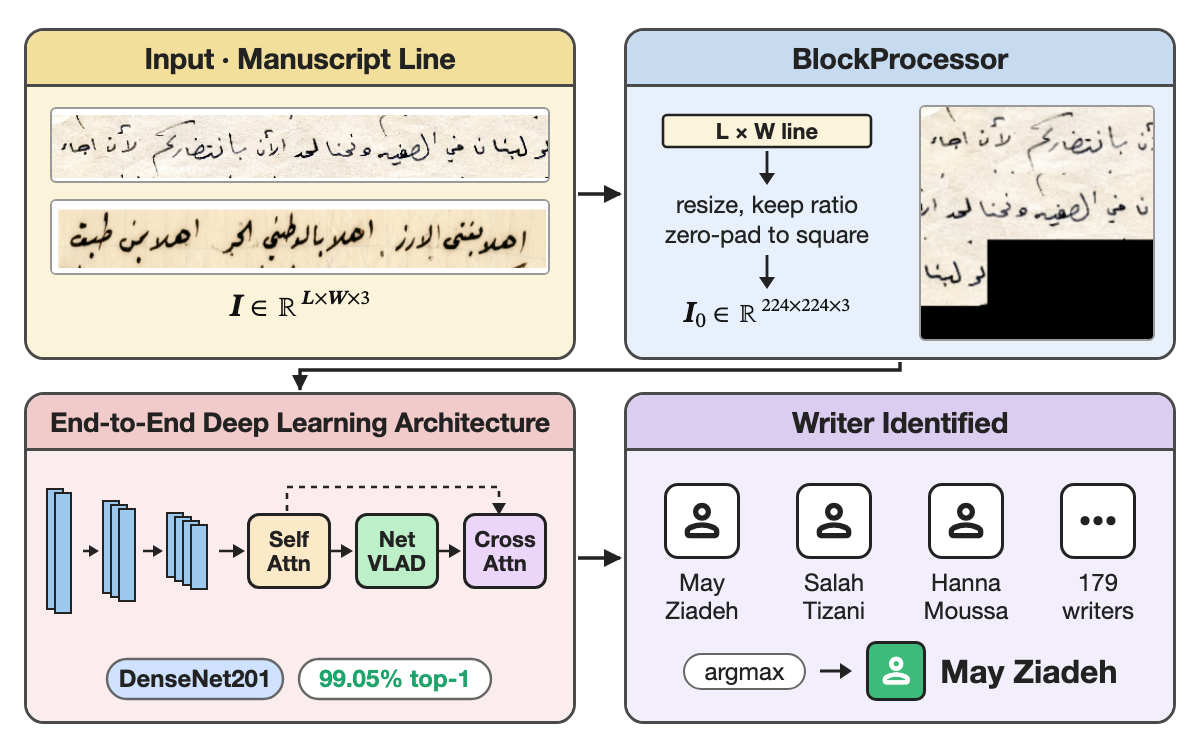
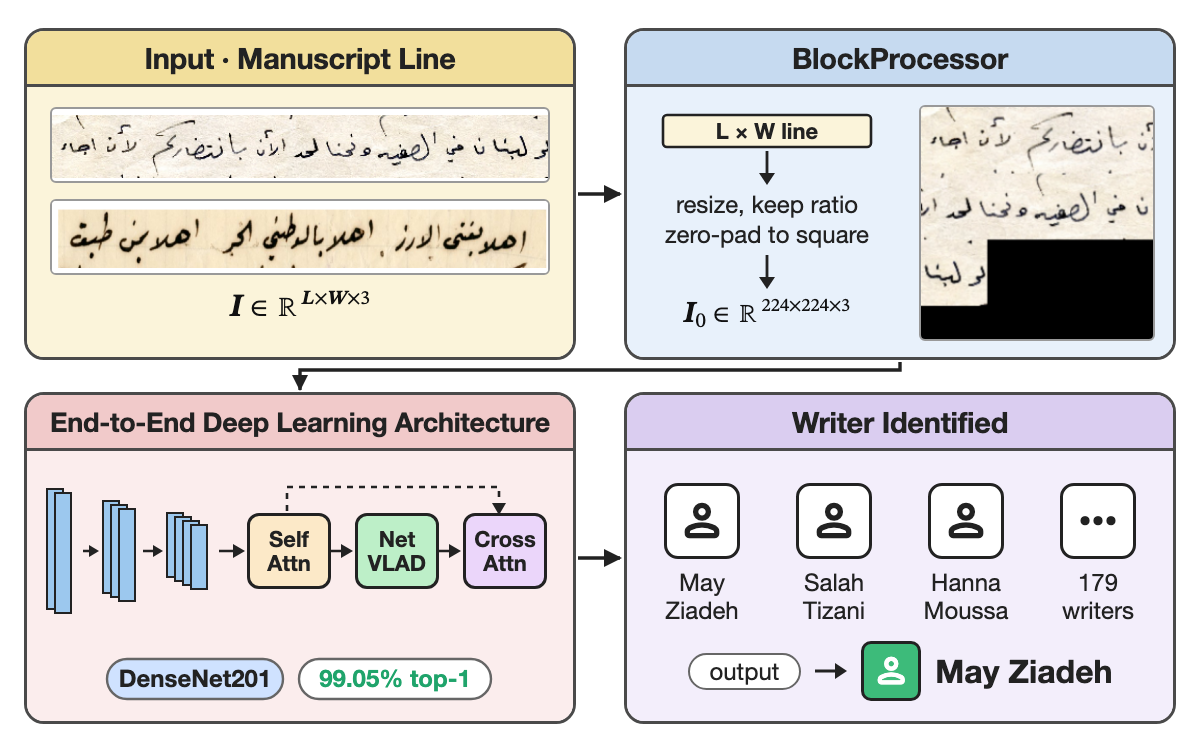
Add website figure for the MCU quantization survey; label predictions as output

Changed region(s): [[0.555, 0.8587, 0.9558, 0.9507]]

diff --git a/_figures/mcu-quantization-survey.html b/_figures/mcu-quantization-survey.html
@@ -1,0 +1,113 @@
+<!doctype html><html><head><meta charset="utf-8"><link href="https://fonts.googleapis.com/css2?family=Material+Symbols+Rounded:opsz,wght,FILL,GRAD@40,500,0,0" rel="stylesheet"><link href="https://fonts.googleapis.com/css2?family=STIX+Two+Text:ital,wght@0,400;0,700;1,400;1,700&display=swap" rel="stylesheet"><style>
+.m{font-family:"STIX Two Text",serif;font-size:16px;color:#111}.m b{font-weight:700}.m i{font-style:italic;font-weight:700}.m sub{font-size:.7em;vertical-align:-.25em;font-style:italic}
+html,body{margin:0;background:#fff}*{box-sizing:border-box}
+.f{width:600px;height:375px;position:relative;overflow:hidden;background:#fff;font-family:"Helvetica Neue",Helvetica,Arial,sans-serif;color:#222}
+.p{position:absolute;width:276px;height:166px;border:1.5px solid #4A4A4A;border-radius:10px;overflow:hidden}
+.p h4{margin:0;height:28px;line-height:27px;font-size:14.5px;font-weight:700;text-align:center;border-bottom:1.5px solid #4A4A4A;letter-spacing:-.01em}
+.b{height:136px;position:relative}
+.lav h4{background:#F2DF9C}.lav .b{background:#FBF4DA}
+.blu h4{background:#C6DAF0}.blu .b{background:#E8F1FB}
+.gry h4{background:#F1CACA}.gry .b{background:#FBEDED}
+.yel h4{background:#DACDF0}.yel .b{background:#F3EEFB}
+.plots{display:flex;gap:10px;justify-content:center;padding-top:14px}
+.plots div{width:124px;text-align:center}.plots img{width:124px;display:block;border:1px solid #999;border-radius:3px;background:#fff}
+.plots span{display:block;font-size:13px;color:#222;margin-top:5px}
+.cap{position:absolute;left:0;right:0;bottom:8px;text-align:center;font-size:11.5px;color:#333;line-height:1.3}
+.hw{display:flex;gap:12px;align-items:center;padding:14px 10px 0 12px}
+.hw img{width:140px;display:block;border-radius:3px;border:1px solid #999}
+.hw div{font-size:12.5px;line-height:1.5;color:#222;white-space:nowrap}
+.hw b{display:block;font-size:14px;color:#222;margin-bottom:4px}
+.o{color:#E8702A}.g{color:#1FA46B}
+
+.ob{position:relative;height:136px}
+.tiles{position:absolute;left:0;right:0;top:16px;display:flex;justify-content:center;gap:10px}
+.tile{width:56px;text-align:center}
+.tile .ic{width:38px;height:38px;margin:0 auto;border:1.8px solid #222;border-radius:7px;background:#fff;display:flex;align-items:center;justify-content:center}
+.ms{font-family:'Material Symbols Rounded';font-size:25px;line-height:1;font-feature-settings:'liga';color:#222}
+.tile.on .ic{background:#3DBB7A}.tile.on .ms{color:#fff}
+.tile > span{display:block;font-size:12px;line-height:1.15;margin-top:5px;color:#222}
+.tile.on > span{font-weight:700}
+.am{position:absolute;left:0;right:0;bottom:11px;display:flex;justify-content:center;align-items:center;gap:7px}
+.am .pill{border:1.2px solid #666;border-radius:10px;background:#fff;padding:1px 10px;font-size:12px}
+.am .mini{width:30px;height:30px;border:1.6px solid #222;border-radius:5px;background:#3DBB7A;display:flex;align-items:center;justify-content:center}
+.am .mini .ms{font-size:21px;color:#fff}
+.am b{font-size:16px}
+
+.strip{width:250px;height:38px;margin:0 auto;overflow:hidden;border:1px solid #999;border-radius:3px;background:#fff;position:relative}
+.strip img{position:absolute;left:-4px;width:258px}
+.strips{display:flex;flex-direction:column;gap:14px;padding-top:24px}
+.blk{border:1.6px solid #222;border-radius:7px;display:flex;align-items:center;justify-content:center;text-align:center;font-size:12.5px;font-weight:700;line-height:1.15}
+.sa{background:#FCE9C8;border-style:dashed}.nv{background:#BDEFC8}.ca{background:#EBD6FA;border-style:dashed}
+
+.inp{padding-top:34px;text-align:center}
+.inp img{width:248px;display:block;margin:0 auto;border:1px solid #999;border-radius:3px}
+.blkp{display:flex;align-items:center;justify-content:center;gap:16px;height:136px}
+.blkp img{width:104px;height:104px;display:block;border:1px solid #999;border-radius:3px}
+.mm{font-family:"STIX Two Text",serif;font-size:16px;color:#111;margin-top:9px;display:block}
+.mm i{font-style:italic;font-weight:700}.mm sup{font-size:.62em}.mm sub{font-size:.7em;vertical-align:-.25em}
+.mini-blk{position:absolute;border:1.5px solid #222;border-radius:6px;display:flex;align-items:center;justify-content:center;text-align:center;font-size:11px;font-weight:700;line-height:1.1}
+
+.strip2{width:250px;height:38px;margin:0 auto;overflow:hidden;border:1px solid #999;border-radius:3px;background:#fff;position:relative}
+.strip2 img{position:absolute;left:0;width:250px}
+.strips2{display:flex;flex-direction:column;gap:8px;padding-top:10px}
+.bp{position:relative;height:136px}
+.bp img.blk{position:absolute;left:14px;top:9px;width:118px;height:118px;border:1px solid #999;border-radius:3px}
+
+.abs{position:absolute}
+.gly{position:absolute;width:30px;height:30px;display:flex;align-items:center;justify-content:center}
+.gly .ms{font-size:24px;color:#222}
+.cap2{position:absolute;font-size:11.5px;font-weight:700;text-align:center;color:#222;line-height:1.2}
+.pilltag{position:absolute;border:1.2px solid #666;border-radius:10px;background:#fff;padding:2px 0;font-size:12px;font-weight:700;text-align:center}
+.lvl{position:absolute;left:0;right:0;height:45px;display:flex;align-items:center;padding:0 12px;gap:10px}
+.lvl b{width:44px;font-size:12.5px}
+.lvl img{height:30px;width:auto}
+.lvl .ms{font-size:26px;color:#222;width:34px;text-align:center}
+.lvl span.d{font-size:12px;white-space:nowrap}
+.grp{position:absolute;left:12px;font-size:11px;font-weight:700;color:#555;width:46px;text-align:right}
+.trow{position:absolute;left:66px;display:flex;gap:6px}
+.t2{width:28px;height:28px;border:1.5px solid #222;border-radius:6px;background:#fff;display:flex;align-items:center;justify-content:center}
+.t2 .ms{font-size:19px;color:#222}
+
+.dtile{position:absolute;width:30px;height:30px;border:1.5px solid #222;border-radius:6px;background:#fff;display:flex;align-items:center;justify-content:center}
+.dtile .ms{font-size:19px;color:#222}
+.lv2{position:absolute;left:0;right:0;height:45px;display:flex;align-items:center;padding:0 10px;gap:8px}
+.lv2 .lt{width:30px;height:30px;border:1.5px solid #222;border-radius:6px;display:flex;align-items:center;justify-content:center;flex:none}
+.lv2 .lt .ms{font-size:19px;color:#222}
+.lv2 b{width:40px;font-size:12.5px;flex:none}
+.d2{font-size:12px;white-space:nowrap;color:#222;line-height:1.3}
+.lat{color:#E8702A;font-weight:600}
+.dc{border:1.2px solid #444;border-radius:5px;padding:2px 7px;font-size:11.5px;font-weight:600;white-space:nowrap}
+.edge{background:#CFE2FF}.fog{background:#FBD9AE}.cld{background:#F6D3F0}
+.lv3{position:absolute;left:0;right:0;height:45px;display:flex;align-items:center;padding:0 12px 0 10px;gap:9px}
+.lv3 .lt{width:30px;height:30px;border:1.5px solid #222;border-radius:6px;display:flex;align-items:center;justify-content:center;flex:none}
+.lv3 .lt .ms{font-size:19px;color:#222}
+.lv3 .nm{flex:1;line-height:1.25}
+.lv3 .nm b{display:block;font-size:12.5px}
+.lv3 .nm span{font-size:11.5px;color:#333;white-space:nowrap}
+.lv3 .lat2{flex:none;width:62px;font-size:11px;font-weight:700;color:#E8702A;white-space:nowrap;text-align:center;background:#fff;border:1px solid #666;border-radius:8px;padding:1px 0}
+
+.ib{position:absolute;border:1.6px solid #222;border-radius:8px;background:#fff;color:#222}
+.ib .lb{position:absolute;left:0;right:0;text-align:center;font-size:12px;font-weight:700;line-height:1.2}
+.cnt{position:absolute;border:1.1px solid #666;border-radius:9px;background:#fff;font-size:10.5px;font-weight:700;padding:0 7px;line-height:15px;white-space:nowrap}
+.cell{display:inline-block;border:.6px solid #222;margin-right:-.6px;vertical-align:top}
+.tl{display:inline-flex;width:18px;height:18px;border:1.3px solid #222;border-radius:4px;align-items:center;justify-content:center;font-size:11px;font-weight:700;margin:0 1px}
+.rc{display:inline-flex;width:24px;height:24px;border:1.4px solid #222;border-radius:12px;background:#F1EBE0;align-items:center;justify-content:center;font-size:12.5px;font-weight:700;margin:0 2px}
+.ico{display:inline-flex;width:26px;height:26px;border:1.4px solid #222;border-radius:6px;background:#fff;align-items:center;justify-content:center;margin:0 2px}
+.ico .ms{font-size:17px;color:#222}
+.chipcol{display:inline-flex;flex-direction:column;align-items:center;width:32px;margin:0 1px}
+.chipcol .ico{margin:0}
+.chipcol b{font-size:9.5px;margin-top:4px;white-space:nowrap}
+.bgrp{position:absolute;left:50%;transform:translateX(-50%);display:flex;flex-direction:column;gap:7px}
+.bstrip{display:flex;align-items:center;gap:5px;line-height:0}
+.bstrip span{display:flex;white-space:nowrap}
+.bstrip b{font-size:10.5px;line-height:12px;width:30px;text-align:right}
+</style></head><body><div class="f"><div class="p lav" style="left:12px;top:14px;width:152px;height:347px"><h4 style="">Background</h4><div class="b" style="height:317px"></div></div><div class="p blu" style="left:188px;top:14px;width:224px;height:347px"><h4 style="font-size:13px">Systematic Review · 351 Studies</h4><div class="b" style="height:317px"></div></div><div class="p yel" style="left:436px;top:14px;width:152px;height:347px"><h4 style="">Synthesis</h4><div class="b" style="height:317px"></div></div><div class="ib" style="left:24px;top:54px;width:128px;height:134px"><div class="bgrp" style="top:30px"><div class="bstrip"><b>FP32</b><span><i class="cell" style="width:2.9px;height:12px;background:#F4A7A7"></i><i class="cell" style="width:2.9px;height:12px;background:#B5E3BF"></i><i class="cell" style="width:2.9px;height:12px;background:#B5E3BF"></i><i class="cell" style="width:2.9px;height:12px;background:#B5E3BF"></i><i class="cell" style="width:2.9px;height:12px;background:#B5E3BF"></i><i class="cell" style="width:2.9px;height:12px;background:#B5E3BF"></i><i class="cell" style="width:2.9px;height:12px;background:#B5E3BF"></i><i class="cell" style="width:2.9px;height:12px;background:#B5E3BF"></i><i class="cell" style="width:2.9px;height:12px;background:#B5E3BF"></i><i class="cell" style="width:2.9px;height:12px;background:#9CC8EE"></i><i class="cell" style="width:2.9px;height:12px;background:#9CC8EE"></i><i class="cell" style="width:2.9px;height:12px;background:#9CC8EE"></i><i class="cell" style="width:2.9px;height:12px;background:#9CC8EE"></i><i class="cell" style="width:2.9px;height:12px;background:#9CC8EE"></i><i class="cell" style="width:2.9px;height:12px;background:#9CC8EE"></i><i class="cell" style="width:2.9px;height:12px;background:#9CC8EE"></i><i class="cell" style="width:2.9px;height:12px;background:#9CC8EE"></i><i class="cell" style="width:2.9px;height:12px;background:#9CC8EE"></i><i class="cell" style="width:2.9px;height:12px;background:#9CC8EE"></i><i class="cell" style="width:2.9px;height:12px;background:#9CC8EE"></i><i class="cell" style="width:2.9px;height:12px;background:#9CC8EE"></i><i class="cell" style="width:2.9px;height:12px;background:#9CC8EE"></i><i class="cell" style="width:2.9px;height:12px;background:#9CC8EE"></i><i class="cell" style="width:2.9px;height:12px;background:#9CC8EE"></i><i class="cell" style="width:2.9px;height:12px;background:#9CC8EE"></i><i class="cell" style="width:2.9px;height:12px;background:#9CC8EE"></i><i class="cell" style="width:2.9px;height:12px;background:#9CC8EE"></i><i class="cell" style="width:2.9px;height:12px;background:#9CC8EE"></i><i class="cell" style="width:2.9px;height:12px;background:#9CC8EE"></i><i class="cell" style="width:2.9px;height:12px;background:#9CC8EE"></i><i class="cell" style="width:2.9px;height:12px;background:#9CC8EE"></i><i class="cell" style="width:2.9px;height:12px;background:#9CC8EE"></i></span></div><div class="bstrip"><b>INT8</b><span><i class="cell" style="width:2.9px;height:12px;background:#9CC8EE"></i><i class="cell" style="width:2.9px;height:12px;background:#9CC8EE"></i><i class="cell" style="width:2.9px;height:12px;background:#9CC8EE"></i><i class="cell" style="width:2.9px;height:12px;background:#9CC8EE"></i><i class="cell" style="width:2.9px;height:12px;background:#9CC8EE"></i><i class="cell" style="width:2.9px;height:12px;background:#9CC8EE"></i><i class="cell" style="width:2.9px;height:12px;background:#9CC8EE"></i><i class="cell" style="width:2.9px;height:12px;background:#9CC8EE"></i></span></div></div><div class="lb" style="top:74px;">Preliminaries</div><div class="lb" style="top:92px;font-weight:400;font-size:11px">number formats</div></div><div class="ib" style="left:24px;top:212px;width:128px;height:135px"><svg width="96" height="39" viewBox="0 0 128 52" style="position:absolute;left:50%;transform:translateX(-50%);top:18px"><line x1="14" y1="12" x2="114" y2="12" stroke="#222" stroke-width="1.5"/><circle cx="22" cy="12" r="3.4" fill="#9CC8EE" stroke="#222" stroke-width="1"/><circle cx="35" cy="12" r="3.4" fill="#9CC8EE" stroke="#222" stroke-width="1"/><circle cx="49" cy="12" r="3.4" fill="#9CC8EE" stroke="#222" stroke-width="1"/><circle cx="58" cy="12" r="3.4" fill="#9CC8EE" stroke="#222" stroke-width="1"/><circle cx="77" cy="12" r="3.4" fill="#9CC8EE" stroke="#222" stroke-width="1"/><circle cx="90" cy="12" r="3.4" fill="#9CC8EE" stroke="#222" stroke-width="1"/><circle cx="104" cy="12" r="3.4" fill="#9CC8EE" stroke="#222" stroke-width="1"/><line x1="22" y1="15" x2="24" y2="40" stroke="#3DBB7A" stroke-width="1.4"/><path d="M21 37 L24 42 L27 37" fill="none" stroke="#3DBB7A" stroke-width="1.4"/><line x1="35" y1="15" x2="44" y2="40" stroke="#3DBB7A" stroke-width="1.4"/><path d="M41 37 L44 42 L47 37" fill="none" stroke="#3DBB7A" stroke-width="1.4"/><line x1="49" y1="15" x2="44" y2="40" stroke="#3DBB7A" stroke-width="1.4"/><path d="M41 37 L44 42 L47 37" fill="none" stroke="#3DBB7A" stroke-width="1.4"/><line x1="58" y1="15" x2="64" y2="40" stroke="#3DBB7A" stroke-width="1.4"/><path d="M61 37 L64 42 L67 37" fill="none" stroke="#3DBB7A" stroke-width="1.4"/><line x1="77" y1="15" x2="84" y2="40" stroke="#3DBB7A" stroke-width="1.4"/><path d="M81 37 L84 42 L87 37" fill="none" stroke="#3DBB7A" stroke-width="1.4"/><line x1="90" y1="15" x2="84" y2="40" stroke="#3DBB7A" stroke-width="1.4"/><path d="M81 37 L84 42 L87 37" fill="none" stroke="#3DBB7A" stroke-width="1.4"/><line x1="104" y1="15" x2="104" y2="40" stroke="#3DBB7A" stroke-width="1.4"/><path d="M101 37 L104 42 L107 37" fill="none" stroke="#3DBB7A" stroke-width="1.4"/><line x1="14" y1="44" x2="114" y2="44" stroke="#222" stroke-width="1.5"/><line x1="24" y1="40" x2="24" y2="48" stroke="#222" stroke-width="1.8"/><line x1="44" y1="40" x2="44" y2="48" stroke="#222" stroke-width="1.8"/><line x1="64" y1="40" x2="64" y2="48" stroke="#222" stroke-width="1.8"/><line x1="84" y1="40" x2="84" y2="48" stroke="#222" stroke-width="1.8"/><line x1="104" y1="40" x2="104" y2="48" stroke="#222" stroke-width="1.8"/><text x="2" y="17" font-family="STIX Two Text,serif" font-size="15" font-weight="700">ℝ</text><text x="2" y="49" font-family="STIX Two Text,serif" font-size="15" font-weight="700">ℤ</text></svg><div class="lb" style="top:66px;font-size:11.5px">Primary Quantization<br>Techniques</div><div class="cnt" style="left:50%;transform:translateX(-50%);top:102px">PTQ · QAT</div></div><div class="ib" style="left:200px;top:54px;width:96px;height:96px"><div style="position:absolute;left:0;right:0;top:11px;text-align:center;white-space:nowrap"><span class="tl" style="background:#CFE2FF">8</span><span class="tl" style="background:#FFF1C1">4</span><span class="tl" style="background:#CFF4DA">2</span><span class="tl" style="background:#CFE2FF">8</span></div><div class="lb" style="top:37px;">Advanced<br>Quantization</div><div class="cnt" style="left:50%;transform:translateX(-50%);top:72px">118 studies</div></div><div class="ib" style="left:304px;top:54px;width:96px;height:96px"><div style="position:absolute;left:12px;top:10px;line-height:0"><i class="cell" style="width:5.5px;height:5px;background:#F4A7A7"></i><i class="cell" style="width:5.5px;height:5px;background:#B5E3BF"></i><i class="cell" style="width:5.5px;height:5px;background:#B5E3BF"></i><i class="cell" style="width:5.5px;height:5px;background:#B5E3BF"></i><i class="cell" style="width:5.5px;height:5px;background:#B5E3BF"></i><i class="cell" style="width:5.5px;height:5px;background:#9CC8EE"></i><i class="cell" style="width:5.5px;height:5px;background:#9CC8EE"></i><i class="cell" style="width:5.5px;height:5px;background:#9CC8EE"></i></div><div style="position:absolute;left:12px;top:17px;line-height:0"><i class="cell" style="width:5.5px;height:5px;background:#FFE0B2"></i><i class="cell" style="width:5.5px;height:5px;background:#FFE0B2"></i><i class="cell" style="width:5.5px;height:5px;background:#FFE0B2"></i><i class="cell" style="width:5.5px;height:5px;background:#FFE0B2"></i><i class="cell" style="width:5.5px;height:5px;background:#9CC8EE"></i><i class="cell" style="width:5.5px;height:5px;background:#9CC8EE"></i><i class="cell" style="width:5.5px;height:5px;background:#9CC8EE"></i><i class="cell" style="width:5.5px;height:5px;background:#9CC8EE"></i></div><div style="position:absolute;left:12px;top:24px;line-height:0"><i class="cell" style="width:5.5px;height:5px;background:#F4A7A7"></i><i class="cell" style="width:5.5px;height:5px;background:#E7C8F0"></i><i class="cell" style="width:5.5px;height:5px;background:#E7C8F0"></i><i class="cell" style="width:5.5px;height:5px;background:#E7C8F0"></i><i class="cell" style="width:5.5px;height:5px;background:#B5E3BF"></i><i class="cell" style="width:5.5px;height:5px;background:#B5E3BF"></i><i class="cell" style="width:5.5px;height:5px;background:#9CC8EE"></i><i class="cell" style="width:5.5px;height:5px;background:#9CC8EE"></i></div><div style="position:absolute;left:62px;top:8px;font-size:8.5px;font-weight:700;line-height:7.5px">FP8<br>Fixed<br>Posit</div><div class="lb" style="top:37px;">Alternative<br>Formats</div><div class="cnt" style="left:50%;transform:translateX(-50%);top:72px">54 studies</div></div><div class="ib" style="left:200px;top:173px;width:200px;height:76px"><div style="position:absolute;left:8px;top:16px;display:flex"><span class="chipcol"><span class="ico" style="background:#CFE2FF"><span class="ms">memory</span></span><b>ARM</b></span><span class="chipcol"><span class="ico" style="background:#FBD9AE"><span class="ms">memory</span></span><b>RISC-V</b></span><span class="chipcol"><span class="ico" style="background:#F6D3F0"><span class="ms">memory</span></span><b>NPU</b></span></div><div class="lb" style="left:110px;right:6px;top:11px">Hardware &amp;<br>Software</div><div class="cnt" style="left:118px;top:47px">62 studies</div></div><div class="ib" style="left:200px;top:271px;width:200px;height:76px"><div style="position:absolute;left:10px;top:24px"><span class="ico"><span class="ms">visibility</span></span><span class="ico"><span class="ms">graphic_eq</span></span><span class="ico"><span class="ms">monitor_heart</span></span></div><div class="lb" style="left:110px;right:6px;top:11px">Deployed<br>Applications</div><div class="cnt" style="left:116px;top:47px">121 studies</div></div><div class="ib" style="left:448px;top:54px;width:128px;height:134px"><div style="position:absolute;left:0;right:0;top:34px;text-align:center"><span class="rc">1</span><span class="rc">2</span><span class="rc">3</span></div><div class="lb" style="top:70px;">Cross-Case<br>Recommendations</div></div><div class="ib" style="left:448px;top:212px;width:128px;height:135px"><div style="position:absolute;left:0;right:0;top:34px;text-align:center"><span class="ico"><span class="ms">sd_card</span></span><span class="ico"><span class="ms">model_training</span></span><span class="ico"><span class="ms">eco</span></span></div><div class="lb" style="top:72px;">Challenges &amp;<br>Future Directions</div></div><svg width="600" height="375" style="position:absolute;left:0;top:0;pointer-events:none">
+  <defs><marker id="a" markerUnits="userSpaceOnUse" markerWidth="9" markerHeight="9" refX="8" refY="4.5" orient="auto"><path d="M0 0 L9 4.5 L0 9z" fill="#222"/></marker>
+        <marker id="s" markerUnits="userSpaceOnUse" markerWidth="8" markerHeight="8" refX="7.5" refY="4" orient="auto"><path d="M0 0 L8 4 L0 8z" fill="#222"/></marker></defs>
+  <g stroke="#222" stroke-width="1.7" fill="none" marker-end="url(#a)"><path d="M165 200 H186"/><path d="M413 200 H434"/></g>
+  <g stroke="#222" stroke-width="1.4" fill="none"><path d="M248 151 V161 H352 V151"/></g>
+  <g stroke="#222" stroke-width="1.4" fill="none" marker-end="url(#s)">
+    <path d="M300 161 V172"/><path d="M300 250 V270"/>
+    <path d="M88 189 V211"/><path d="M512 189 V211"/>
+  </g>
+</svg></div></body></html>

diff --git a/_figures/ids-iot.html b/_figures/ids-iot.html
@@ -106,7 +106,7 @@ html,body{margin:0;background:#fff}*{box-sizing:border-box}
   <div class="lv3" style="top:90px"><span class="lt edge"><span class="ms">memory</span></span><div class="nm"><b>Edge</b><span>Spresense · Pi Zero 2 W</span></div><span class="lat2">≤ 0.78 ms</span></div>
   <svg width="272" height="136" class="abs" style="left:0;top:0"><g stroke="#888" stroke-width="1.2" stroke-dasharray="5 4"><line x1="8" y1="45" x2="264" y2="45"/><line x1="8" y1="90" x2="264" y2="90"/></g></svg>
 </div></div>
-<div class="p yel" style="left:312px;top:196px"><h4>Traffic Classified · 13 Classes</h4><div class="b"><div class="ob"><div class="tiles" style="gap:7px;top:14px"><div class="tile" style="width:46px"><div class="ic" style="position:relative"><span class="ms">verified_user</span><span style="position:absolute;right:-7px;top:-8px;background:#222;color:#fff;border-radius:8px;font-size:9.5px;font-weight:700;padding:0 4px;line-height:15px">×4</span></div><span style="font-size:10px;white-space:nowrap;margin-left:-6px;margin-right:-6px">Benign</span></div><div class="tile" style="width:46px"><div class="ic" style="position:relative"><span class="ms">waves</span><span style="position:absolute;right:-7px;top:-8px;background:#222;color:#fff;border-radius:8px;font-size:9.5px;font-weight:700;padding:0 4px;line-height:15px">×2</span></div><span style="font-size:10px;white-space:nowrap;margin-left:-6px;margin-right:-6px">DoS /<br>DDoS</span></div><div class="tile" style="width:46px"><div class="ic" style="position:relative"><span class="ms">lan</span></div><span style="font-size:10px;white-space:nowrap;margin-left:-6px;margin-right:-6px">ARP<br>Poisoning</span></div><div class="tile" style="width:46px"><div class="ic" style="position:relative"><span class="ms">key</span></div><span style="font-size:10px;white-space:nowrap;margin-left:-6px;margin-right:-6px">SSH<br>Brute-Force</span></div><div class="tile" style="width:46px"><div class="ic" style="position:relative"><span class="ms">radar</span><span style="position:absolute;right:-7px;top:-8px;background:#222;color:#fff;border-radius:8px;font-size:9.5px;font-weight:700;padding:0 4px;line-height:15px">×5</span></div><span style="font-size:10px;white-space:nowrap;margin-left:-6px;margin-right:-6px">Nmap<br>Scan</span></div></div><div class="am"><span class="pill">argmax</span><svg width="16" height="10"><path d="M0 5 H11" stroke="#222" stroke-width="1.6"/><path d="M10 1 L16 5 L10 9z" fill="#222"/></svg><span class="mini"><span class="ms">waves</span></span><b>DoS SYN Flood</b></div></div></div></div>
+<div class="p yel" style="left:312px;top:196px"><h4>Traffic Classified · 13 Classes</h4><div class="b"><div class="ob"><div class="tiles" style="gap:7px;top:14px"><div class="tile" style="width:46px"><div class="ic" style="position:relative"><span class="ms">verified_user</span><span style="position:absolute;right:-7px;top:-8px;background:#222;color:#fff;border-radius:8px;font-size:9.5px;font-weight:700;padding:0 4px;line-height:15px">×4</span></div><span style="font-size:10px;white-space:nowrap;margin-left:-6px;margin-right:-6px">Benign</span></div><div class="tile" style="width:46px"><div class="ic" style="position:relative"><span class="ms">waves</span><span style="position:absolute;right:-7px;top:-8px;background:#222;color:#fff;border-radius:8px;font-size:9.5px;font-weight:700;padding:0 4px;line-height:15px">×2</span></div><span style="font-size:10px;white-space:nowrap;margin-left:-6px;margin-right:-6px">DoS /<br>DDoS</span></div><div class="tile" style="width:46px"><div class="ic" style="position:relative"><span class="ms">lan</span></div><span style="font-size:10px;white-space:nowrap;margin-left:-6px;margin-right:-6px">ARP<br>Poisoning</span></div><div class="tile" style="width:46px"><div class="ic" style="position:relative"><span class="ms">key</span></div><span style="font-size:10px;white-space:nowrap;margin-left:-6px;margin-right:-6px">SSH<br>Brute-Force</span></div><div class="tile" style="width:46px"><div class="ic" style="position:relative"><span class="ms">radar</span><span style="position:absolute;right:-7px;top:-8px;background:#222;color:#fff;border-radius:8px;font-size:9.5px;font-weight:700;padding:0 4px;line-height:15px">×5</span></div><span style="font-size:10px;white-space:nowrap;margin-left:-6px;margin-right:-6px">Nmap<br>Scan</span></div></div><div class="am"><span class="pill">output</span><svg width="16" height="10"><path d="M0 5 H11" stroke="#222" stroke-width="1.6"/><path d="M10 1 L16 5 L10 9z" fill="#222"/></svg><span class="mini"><span class="ms">waves</span></span><b>DoS SYN Flood</b></div></div></div></div>
 <svg width="600" height="375" style="position:absolute;left:0;top:0;pointer-events:none">
   <defs><marker id="d" markerUnits="userSpaceOnUse" markerWidth="8" markerHeight="8" refX="7.5" refY="4" orient="auto"><path d="M0 0 L8 4 L0 8z" fill="#222"/></marker><marker id="a" markerUnits="userSpaceOnUse" markerWidth="9" markerHeight="9" refX="8" refY="4.5" orient="auto"><path d="M0 0 L9 4.5 L0 9z" fill="#222"/></marker></defs>
   <g stroke="#222" stroke-width="1.7" fill="none" marker-end="url(#a)">

diff --git a/_figures/writer-id.html b/_figures/writer-id.html
@@ -73,7 +73,7 @@ html,body{margin:0;background:#fff}*{box-sizing:border-box}
   <img class="blk" src="assets/writer-id-block.png" style="left:146px;top:9px;width:118px;height:118px">
 </div></div></div>
 <div class="p gry" style="left:12px;top:196px"><h4 style="font-size:13.5px">End-to-End Deep Learning Architecture</h4><div class="b"><div style="position:relative;height:136px"><svg width="272" height="136" style="position:absolute;left:0;top:0"><rect x="10" y="19.0" width="8" height="60" fill="#9CC8EE" stroke="#222" stroke-width="1"/><rect x="14" y="21.0" width="8" height="60" fill="#9CC8EE" stroke="#222" stroke-width="1"/><rect x="38" y="25.0" width="8" height="46" fill="#9CC8EE" stroke="#222" stroke-width="1"/><rect x="42" y="27.0" width="8" height="46" fill="#9CC8EE" stroke="#222" stroke-width="1"/><rect x="46" y="29.0" width="8" height="46" fill="#9CC8EE" stroke="#222" stroke-width="1"/><rect x="70" y="31.0" width="8" height="32" fill="#9CC8EE" stroke="#222" stroke-width="1"/><rect x="74" y="33.0" width="8" height="32" fill="#9CC8EE" stroke="#222" stroke-width="1"/><rect x="78" y="35.0" width="8" height="32" fill="#9CC8EE" stroke="#222" stroke-width="1"/><rect x="82" y="37.0" width="8" height="32" fill="#9CC8EE" stroke="#222" stroke-width="1"/><g stroke="#222" stroke-width="1.3" fill="none"><path d="M28 50 H32"/><path d="M58 50 H64"/><path d="M96 50 H104"/><path d="M152 50 H158"/><path d="M206 50 H212"/><path d="M130 30 V18 H236 V28" stroke-dasharray="3 3"/></g><g fill="#222"><path d="M31 47 L36 50 L31 53z"/><path d="M63 47 L68 50 L63 53z"/><path d="M103 46.5 L109 50 L103 53.5z"/><path d="M157 46.5 L163 50 L157 53.5z"/><path d="M211 46.5 L217 50 L211 53.5z"/><path d="M232.5 26 L236 32 L239.5 26z"/></g><rect x="40" y="104" width="88" height="20" rx="10" fill="#CFE2FF" stroke="#666" stroke-width="1.2"/><text x="84" y="118" text-anchor="middle" font-size="12" font-weight="700" fill="#222">DenseNet201</text><rect x="136" y="104" width="96" height="20" rx="10" fill="#fff" stroke="#666" stroke-width="1.2"/><text x="184" y="118" text-anchor="middle" font-size="12" font-weight="700" fill="#1FA46B">99.05% top-1</text></svg><div class="mini-blk sa" style="left:110px;top:31px;width:42px;height:38px">Self<br>Attn</div><div class="mini-blk nv" style="left:164px;top:31px;width:42px;height:38px">Net<br>VLAD</div><div class="mini-blk ca" style="left:218px;top:31px;width:42px;height:38px">Cross<br>Attn</div></div></div></div>
-<div class="p yel" style="left:312px;top:196px"><h4>Writer Identified</h4><div class="b"><div class="ob"><div class="tiles"><div class="tile"><div class="ic"><span class="ms">person</span></div><span>May<br>Ziadeh</span></div><div class="tile"><div class="ic"><span class="ms">person</span></div><span>Salah<br>Tizani</span></div><div class="tile"><div class="ic"><span class="ms">person</span></div><span>Hanna<br>Moussa</span></div><div class="tile"><div class="ic"><span class="ms">more_horiz</span></div><span>179<br>writers</span></div></div><div class="am"><span class="pill">argmax</span><svg width="16" height="10"><path d="M0 5 H11" stroke="#222" stroke-width="1.6"/><path d="M10 1 L16 5 L10 9z" fill="#222"/></svg><span class="mini"><span class="ms">person</span></span><b>May Ziadeh</b></div></div></div></div>
+<div class="p yel" style="left:312px;top:196px"><h4>Writer Identified</h4><div class="b"><div class="ob"><div class="tiles"><div class="tile"><div class="ic"><span class="ms">person</span></div><span>May<br>Ziadeh</span></div><div class="tile"><div class="ic"><span class="ms">person</span></div><span>Salah<br>Tizani</span></div><div class="tile"><div class="ic"><span class="ms">person</span></div><span>Hanna<br>Moussa</span></div><div class="tile"><div class="ic"><span class="ms">more_horiz</span></div><span>179<br>writers</span></div></div><div class="am"><span class="pill">output</span><svg width="16" height="10"><path d="M0 5 H11" stroke="#222" stroke-width="1.6"/><path d="M10 1 L16 5 L10 9z" fill="#222"/></svg><span class="mini"><span class="ms">person</span></span><b>May Ziadeh</b></div></div></div></div>
 <svg width="600" height="375" style="position:absolute;left:0;top:0;pointer-events:none">
   <defs><marker id="d" markerUnits="userSpaceOnUse" markerWidth="8" markerHeight="8" refX="7.5" refY="4" orient="auto"><path d="M0 0 L8 4 L0 8z" fill="#222"/></marker><marker id="a" markerUnits="userSpaceOnUse" markerWidth="9" markerHeight="9" refX="8" refY="4.5" orient="auto"><path d="M0 0 L9 4.5 L0 9z" fill="#222"/></marker></defs>
   <g stroke="#222" stroke-width="1.7" fill="none" marker-end="url(#a)">

diff --git a/_figures/indoor-rf.html b/_figures/indoor-rf.html
@@ -43,7 +43,7 @@ html,body{margin:0;background:#fff}*{box-sizing:border-box}
 <div class="p gry" style="left:12px;top:196px"><h4>Deployment on MAX78002</h4><div class="b">
   <div class="hw"><img src="assets/indoor-rf-board.jpeg"><div>CNN accelerator<br><span class="o">&lt; 1 ms</span> latency<br><span class="g">≈ 28 µJ</span> energy<br>per inference</div></div></div></div>
 
-<div class="p yel" style="left:312px;top:196px"><h4>Environment Identified</h4><div class="b"><div class="ob"><div class="tiles"><div class="tile"><div class="ic"><span class="ms">co_present</span></div><span>Class</span></div><div class="tile"><div class="ic"><span class="ms">door_open</span></div><span>Corridor</span></div><div class="tile"><div class="ic"><span class="ms">science</span></div><span>Lab</span></div><div class="tile"><div class="ic"><span class="ms">sports_handball</span></div><span>Sports<br>Complex</span></div></div><div class="am"><span class="pill">argmax</span><svg width="16" height="10"><path d="M0 5 H11" stroke="#222" stroke-width="1.6"/><path d="M10 1 L16 5 L10 9z" fill="#222"/></svg><span class="mini"><span class="ms">co_present</span></span><b>Class</b></div></div></div></div>
+<div class="p yel" style="left:312px;top:196px"><h4>Environment Identified</h4><div class="b"><div class="ob"><div class="tiles"><div class="tile"><div class="ic"><span class="ms">co_present</span></div><span>Class</span></div><div class="tile"><div class="ic"><span class="ms">door_open</span></div><span>Corridor</span></div><div class="tile"><div class="ic"><span class="ms">science</span></div><span>Lab</span></div><div class="tile"><div class="ic"><span class="ms">sports_handball</span></div><span>Sports<br>Complex</span></div></div><div class="am"><span class="pill">output</span><svg width="16" height="10"><path d="M0 5 H11" stroke="#222" stroke-width="1.6"/><path d="M10 1 L16 5 L10 9z" fill="#222"/></svg><span class="mini"><span class="ms">co_present</span></span><b>Class</b></div></div></div></div>
 
 <svg width="600" height="375" style="position:absolute;left:0;top:0;pointer-events:none">
   <defs><marker id="d" markerUnits="userSpaceOnUse" markerWidth="8" markerHeight="8" refX="7.5" refY="4" orient="auto"><path d="M0 0 L8 4 L0 8z" fill="#222"/></marker><marker id="a" markerUnits="userSpaceOnUse" markerWidth="9" markerHeight="9" refX="8" refY="4.5" orient="auto"><path d="M0 0 L9 4.5 L0 9z" fill="#222"/></marker></defs>

diff --git a/docs/superpowers/specs/figure-reference/indoor-rf/indoor-rf.html b/docs/superpowers/specs/figure-reference/indoor-rf/indoor-rf.html
@@ -43,7 +43,7 @@ html,body{margin:0;background:#fff}*{box-sizing:border-box}
 <div class="p gry" style="left:12px;top:196px"><h4>Deployment on MAX78002</h4><div class="b">
   <div class="hw"><img src="board.jpeg"><div>CNN accelerator<br><span class="o">&lt; 1 ms</span> latency<br><span class="g">≈ 28 µJ</span> energy<br>per inference</div></div></div></div>
 
-<div class="p yel" style="left:312px;top:196px"><h4>Environment Identified</h4><div class="b"><div class="ob"><div class="tiles"><div class="tile"><div class="ic"><span class="ms">co_present</span></div><span>Class</span></div><div class="tile"><div class="ic"><span class="ms">door_open</span></div><span>Corridor</span></div><div class="tile"><div class="ic"><span class="ms">science</span></div><span>Lab</span></div><div class="tile"><div class="ic"><span class="ms">sports_handball</span></div><span>Sports<br>Complex</span></div></div><div class="am"><span class="pill">argmax</span><svg width="16" height="10"><path d="M0 5 H11" stroke="#222" stroke-width="1.6"/><path d="M10 1 L16 5 L10 9z" fill="#222"/></svg><span class="mini"><span class="ms">co_present</span></span><b>Class</b></div></div></div></div>
+<div class="p yel" style="left:312px;top:196px"><h4>Environment Identified</h4><div class="b"><div class="ob"><div class="tiles"><div class="tile"><div class="ic"><span class="ms">co_present</span></div><span>Class</span></div><div class="tile"><div class="ic"><span class="ms">door_open</span></div><span>Corridor</span></div><div class="tile"><div class="ic"><span class="ms">science</span></div><span>Lab</span></div><div class="tile"><div class="ic"><span class="ms">sports_handball</span></div><span>Sports<br>Complex</span></div></div><div class="am"><span class="pill">output</span><svg width="16" height="10"><path d="M0 5 H11" stroke="#222" stroke-width="1.6"/><path d="M10 1 L16 5 L10 9z" fill="#222"/></svg><span class="mini"><span class="ms">co_present</span></span><b>Class</b></div></div></div></div>
 
 <svg width="600" height="375" style="position:absolute;left:0;top:0;pointer-events:none">
   <defs><marker id="d" markerUnits="userSpaceOnUse" markerWidth="8" markerHeight="8" refX="7.5" refY="4" orient="auto"><path d="M0 0 L8 4 L0 8z" fill="#222"/></marker><marker id="a" markerUnits="userSpaceOnUse" markerWidth="9" markerHeight="9" refX="8" refY="4.5" orient="auto"><path d="M0 0 L9 4.5 L0 9z" fill="#222"/></marker></defs>
